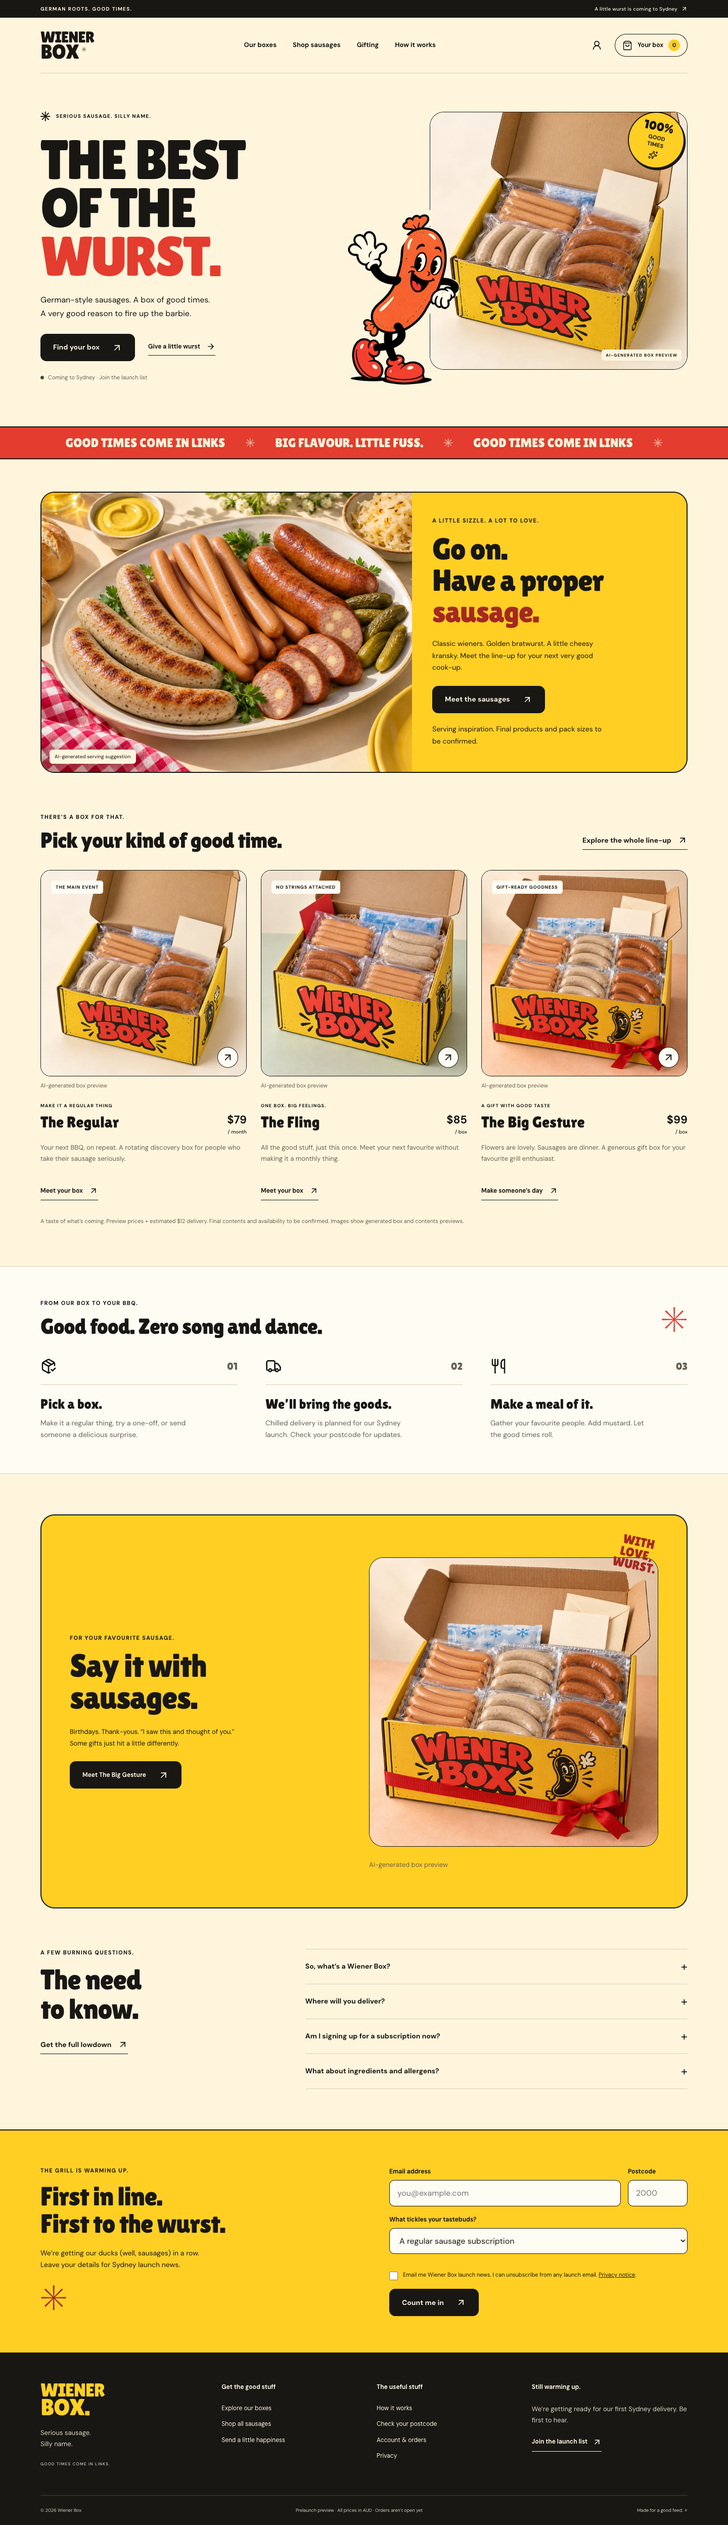
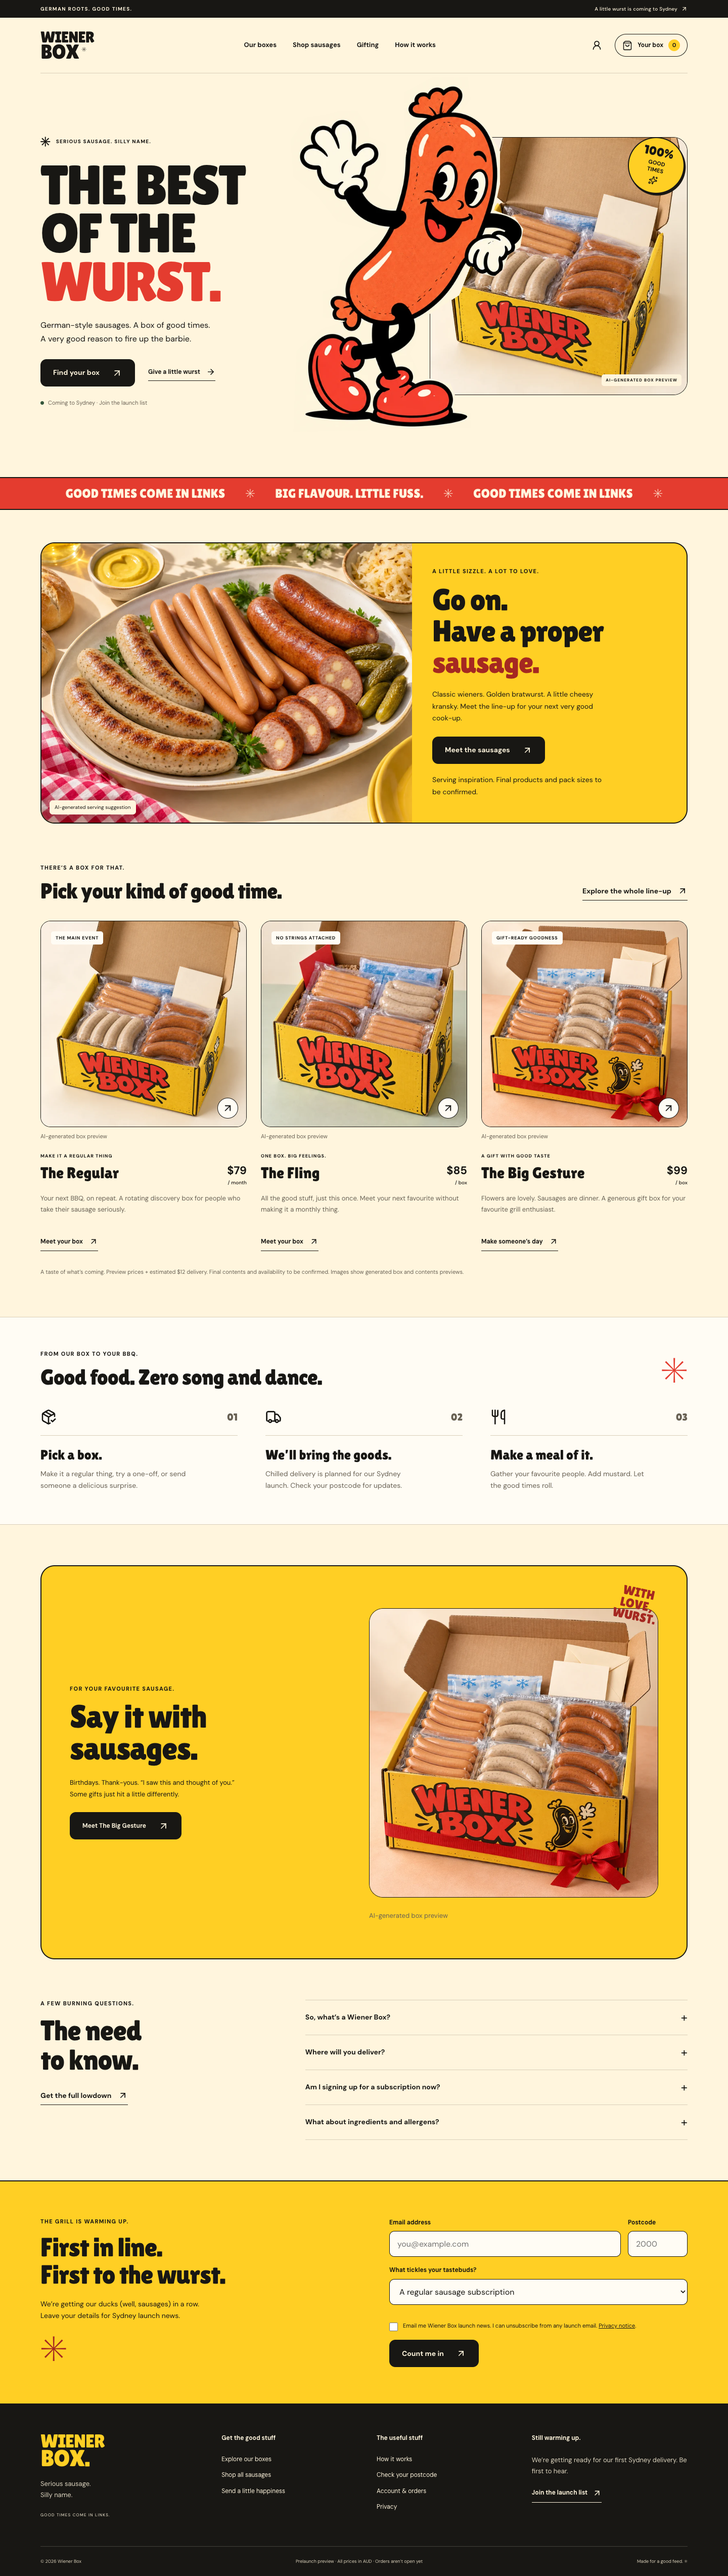
first commit

diff --git a/resources/css/app.css b/resources/css/app.css
@@ -368,6 +368,9 @@ b {
 .hero-art {
     position: relative;
     align-self: center;
+    display: grid;
+    align-items: center;
+    aspect-ratio: 1;
     padding: 12px 0 32px 22%;
     isolation: isolate;
 }
@@ -383,10 +386,10 @@ b {
 .hero-art > .hero-mascot {
     position: absolute;
     z-index: 2;
-    width: 44%;
+    width: 88%;
     max-width: none;
     height: auto;
-    left: -8%;
+    left: -28%;
     bottom: -3%;
     pointer-events: none;
     user-select: none;
@@ -414,12 +417,12 @@ b {
         53% 66%,
         52% 72%,
         50% 75%,
-        56% 80%,
-        64% 81%,
-        68% 86%,
-        68% 89%,
-        73% 91%,
-        73% 96%,
+        54% 81%,
+        64% 83%,
+        66% 87%,
+        66% 90%,
+        71% 91%,
+        71% 95%,
         10% 96%,
         11% 74%,
         20% 68%,
@@ -444,8 +447,7 @@ b {
         39% 30%,
         45% 34%,
         47% 27%,
-        49% 20%,
-        54% 14%
+        49% 20%
     );
 }
 .hero-sticker {
@@ -590,6 +592,7 @@ b {
 }
 .hero-art .hero-caption {
     display: block;
+    z-index: 3;
     bottom: 18px;
     right: 12px;
     padding: 5px 8px;
@@ -2111,10 +2114,13 @@ summary::-webkit-details-marker {
         width: 100%;
         max-width: 410px;
         margin: 0 auto;
+        aspect-ratio: 0.72;
+        align-items: start;
     }
     .hero-art > .hero-mascot {
         left: -3%;
-        width: 40%;
+        width: 80%;
+        bottom: 7%;
     }
     .hero-sticker {
         top: 0;

diff --git a/resources/js/Pages/Home.vue b/resources/js/Pages/Home.vue
@@ -72,7 +72,7 @@ const faqs = [
                         /images/wiener-mascot-leaning-360.webp 360w,
                         /images/wiener-mascot-leaning.webp     720w
                     "
-                    sizes="(max-width: 600px) 45vw, 25vw"
+                    sizes="(max-width: 600px) 80vw, 50vw"
                     width="720"
                     height="913"
                     alt=""
